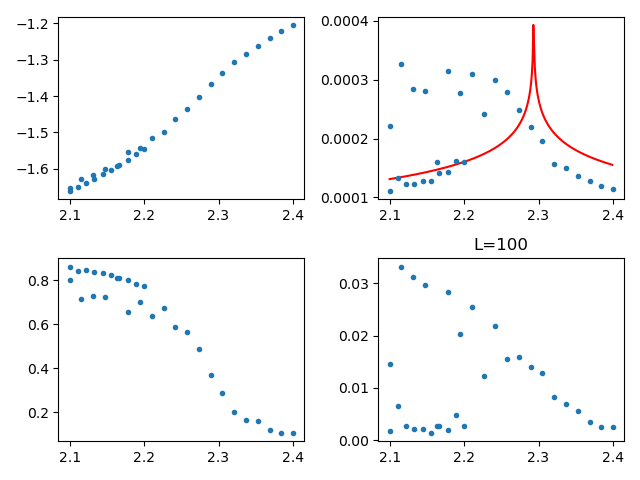
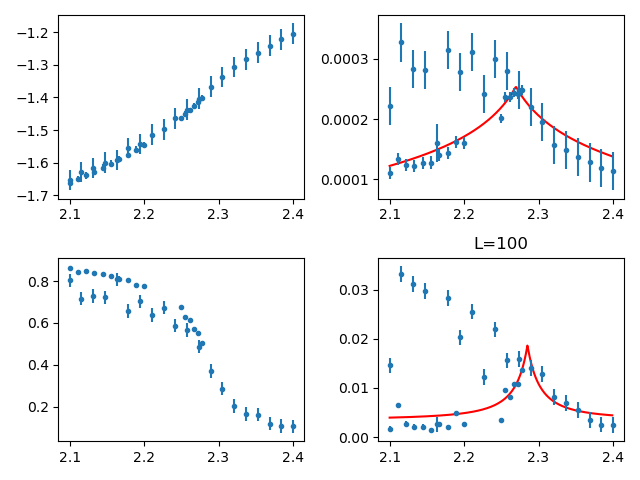
Added regression to chi

diff --git a/problem8.py b/problem8.py
@@ -7,21 +7,41 @@ data = np.genfromtxt(f"Data/Problem8/log.txt", dtype=str, comments="#")
         
 observables = ["eps", "Cv", "abs_m", "chi"]
 
-def f(beta, x):
+def f_log(beta, x):
     """Function to fit against Cv
 
     Args:
-        beta (np.array): array of length 3 (or more), used as parameters
+        beta (np.array): array of length 4 (or more), used as parameters
         x (np.array): Temperatures of the measurements
 
     Returns:
         y (np.array): Cv of the measurements
     """    
-    return beta[2] * (np.log(np.abs(beta[1] * (x-beta[0]))+1e-8) + beta[3])
-model = odr.Model(f)
-beta0 = [2.3, 2, -1e-4, 3]
+    return beta[2] * (np.log(np.abs(beta[1] * (x-beta[0]))+beta[4]) + beta[3])
+
+def f_74(beta, x):
+    """Function to fit against chi
+
+    Args:
+        beta (np.array): array of length 4 (or more), used as parameters
+        x (np.array): Temperatures of the measurements
+
+    Returns:
+        y (np.array): Cv of the measurements
+    """    
+    return beta[2] * np.power(np.abs(beta[1] * (x-beta[0]))+beta[4], -1.75) + beta[3]
+
+model_Cv = odr.Model(f_log)
+model_Chi = odr.Model(f_74)
+beta0_Cv = [2.3, 2, -1e-4, 3, 1e-2]
+beta0_Chi = [2.3, 1e-2, 2e-9, 5e-2, 1e-2]
+
+Tc_list = []
+
+error_scale = [1e-2, 1e-5, 1e-2, 5e-4]
 
 for L in (20,40,60,80,100):
+# for L in (80,):
     L_data = []
     for row in data:        
         if int(row[0]) == L:
@@ -35,18 +55,35 @@ for L in (20,40,60,80,100):
     
         
     Cv = L_data[:, 4].astype(float)
+    Chi = L_data[:, 6].astype(float)
     weights = 1e-6 * L_data[:, 2].astype(int)
-    Data = odr.Data(T, Cv, weights)
-    myodr = odr.ODR(Data, model, beta0)
-    output = myodr.run()
-    # output.pprint()
+    Data_Cv = odr.Data(T, Cv, weights)
+    Data_Chi = odr.Data(T, Chi, weights)
+    myodr_Cv = odr.ODR(Data_Cv, model_Cv, beta0_Cv)
+    myodr_Chi = odr.ODR(Data_Chi, model_Chi, beta0_Cv)
+    output_Cv = myodr_Cv.run()
+    output_Chi = myodr_Chi.run()
+    
+    output_Chi.pprint()
+    
+    Tc_list.append((output_Cv.beta[0], output_Cv.sd_beta[0], L))
+    Tc_list.append((output_Chi.beta[0], output_Chi.sd_beta[0], L))
+    
     
     T_ = np.arange(np.min(T), np.max(T), 1e-3, float)
-    ax2.plot(T_, f(output.beta, T_), "r-")
+    
+    ax2.plot(T_, f_log(output_Cv.beta, T_), "r-")
+    # ax4.plot(T_, f_74(beta0_Cv, T_), "b-")
+    
+    ax4.plot(T_, f_74(output_Chi.beta, T_), "r-")
     
     for i, (obs, ax) in enumerate(zip(observables, axes)):
-        ax.plot(T, L_data[:, i+3].astype(float), ".")
+        ax.errorbar(T, L_data[:, i+3].astype(float), error_scale[i]*np.power(weights, -0.5), fmt = ".")
+        
+    
     
     plt.title(f"L={L}")
     plt.tight_layout()
     plt.savefig(f"Data/Problem8/L={L}.png")
+    
+# print(Tc_list)

diff --git a/problem8.cpp b/problem8.cpp
@@ -80,7 +80,7 @@ int main(int argc, char *argv[]){
                 n_L = 1;
             }
             else{
-                cout << "Pleas supply four or five arguments (T_min(double) T_max(double) n_T(int) n(int) [L(int)]) or no arguments" << endl;
+                cout << "Please supply four or five arguments (T_min(double) T_max(double) n_T(int) n(int) [L(int)]) or no arguments" << endl;
                 return 1;
             }
         }
@@ -97,7 +97,7 @@ int main(int argc, char *argv[]){
     for (int l = 0; l < n_L; l++){
         for (int i = 0; i < n_T; i++){
             count++;
-            cout << count << "/" << 5*n_T << "    ";
+            cout << count << "/" << n_L*n_T << "    ";
             T = (T_min*(n_T-i-1) + T_max*(i)) / (n_T - 1);
             file << Run_openMP(n_sub, T, L[l], n) << endl;
         }
